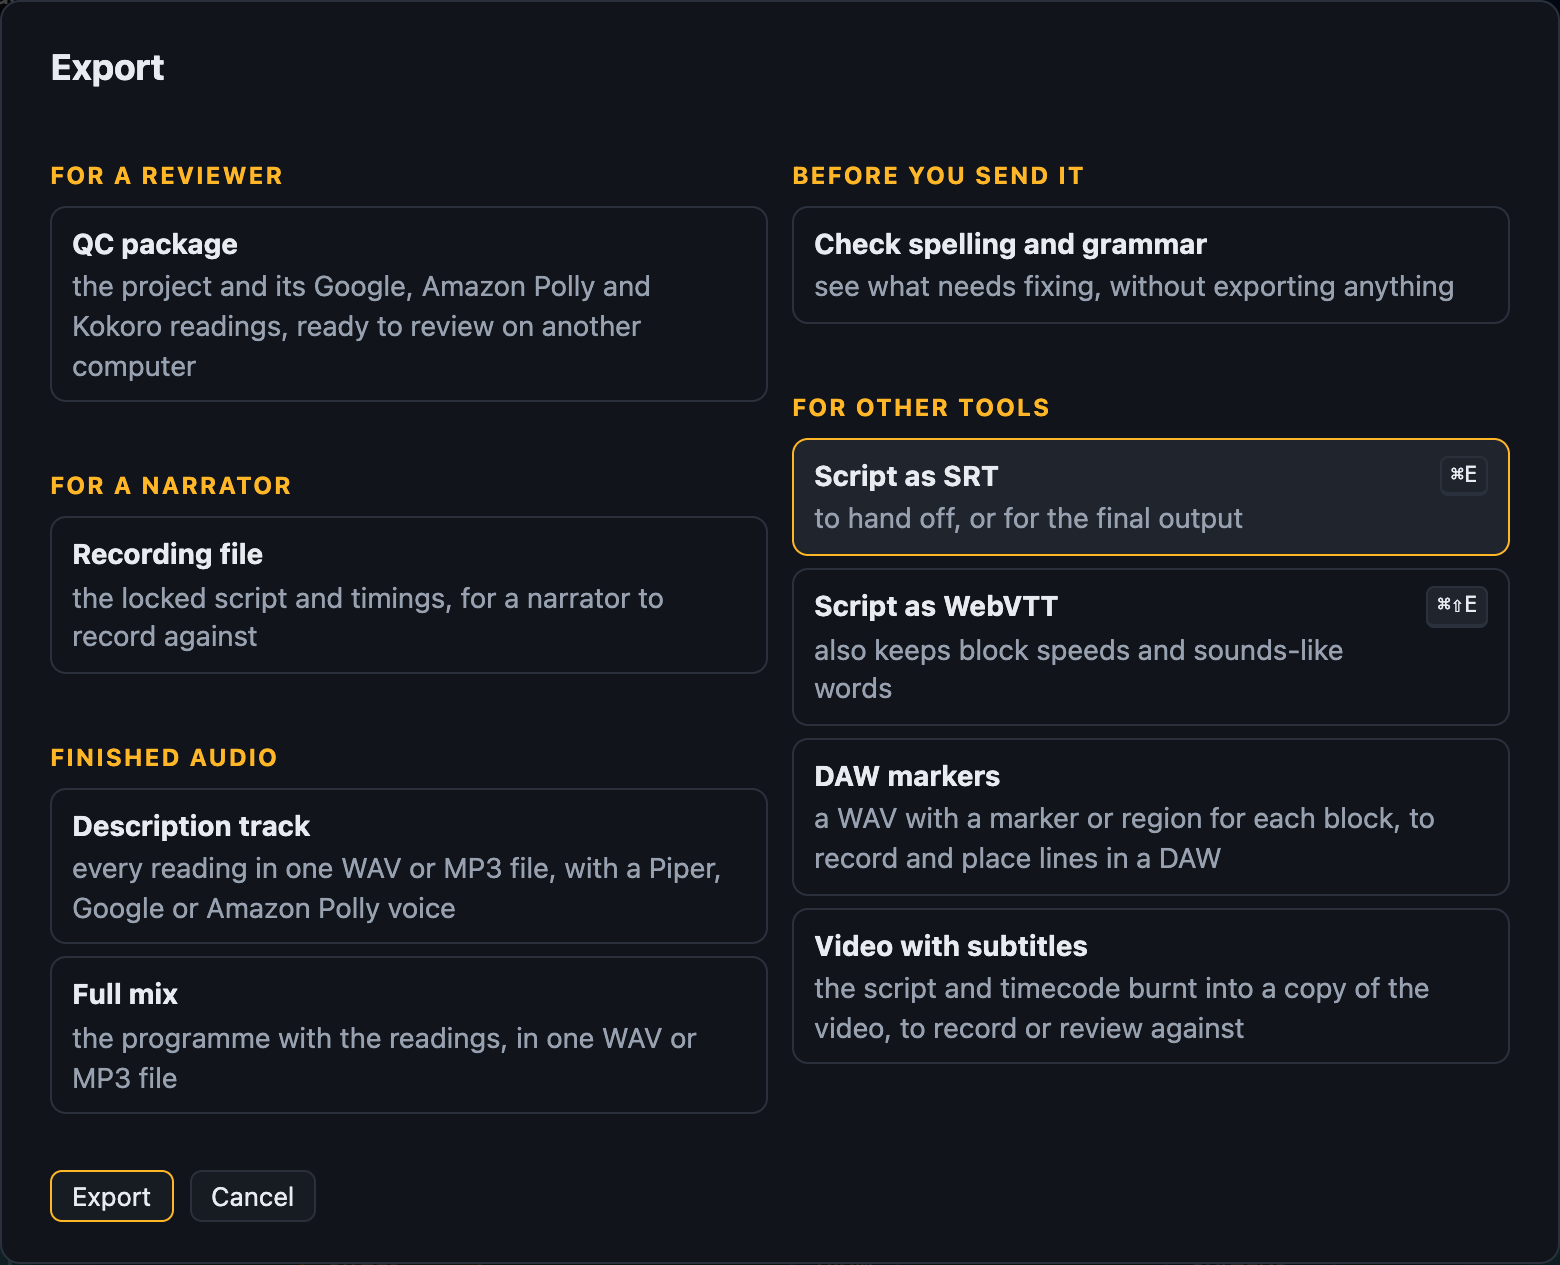
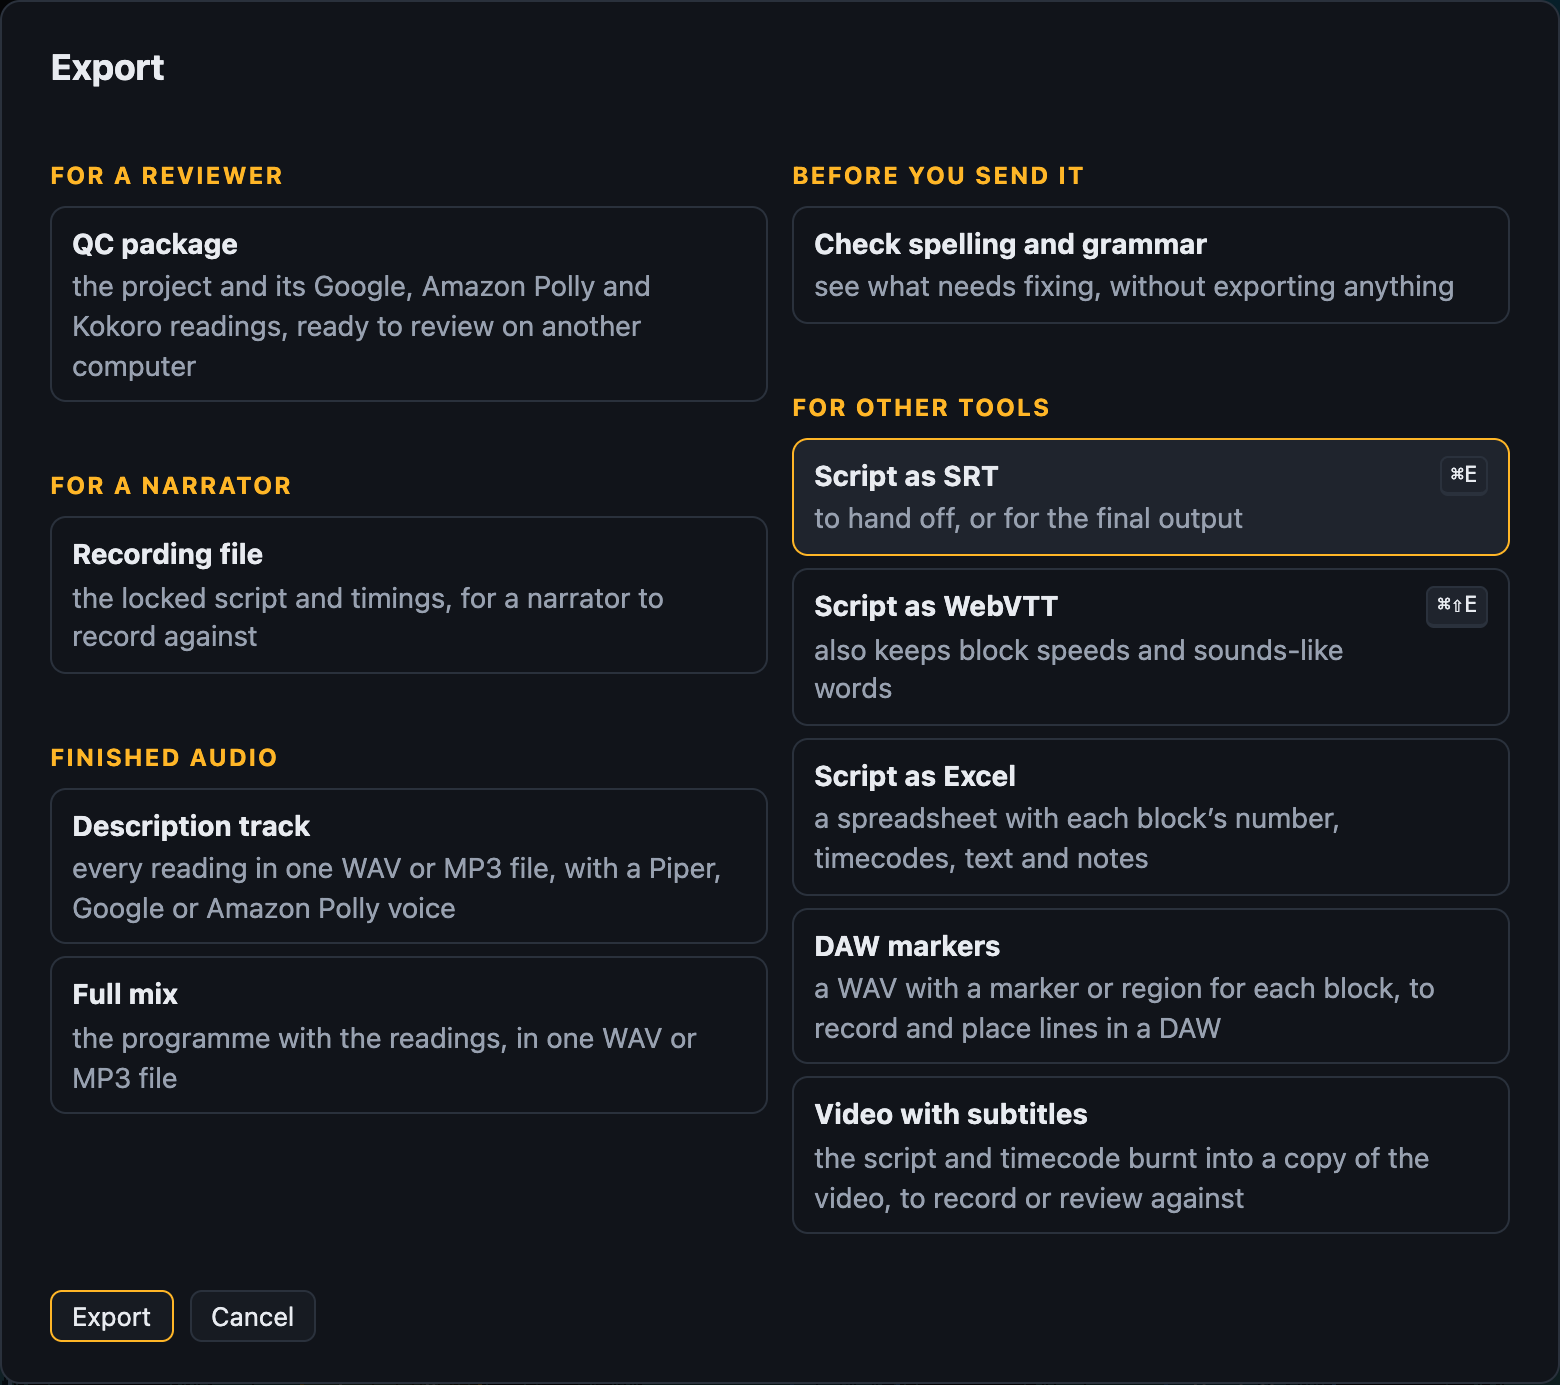
Export the script as an Excel workbook (#125)
File → Export… → Script as Excel saves an .xlsx laid out like a studio
script template: Line Number, Timecode In, Timecode Out, Script and On
Screen Note, one row per block. Timecodes are SMPTE at the video's frame
rate; the note is the block's own notes; the headers carry the voice's
language, such as "Script (fr)". Times follow the extended video, as SRT does.

diff --git a/app/js/xlsx.js b/app/js/xlsx.js
@@ -1,0 +1,104 @@
+// The script as an Excel workbook (.xlsx): one row per block, with its number, timecodes,
+// text and notes, laid out like a studio's script template. An .xlsx is a zip of XML files;
+// stored without compression, which Excel, Numbers, LibreOffice and Google Sheets all read.
+
+import { storeZip } from './zip.js';
+import { fmtTC } from './formats.js';
+
+// The language code for the headers, such as 'en' or 'fr', from a voice's language
+// ('en-US', 'fr_CA'), or failing that from its id ('google:fr-CA-Standard-A',
+// 'piper:de_DE-thorsten-medium', 'kokoro:ef_dora'). English when neither says.
+const KOKORO = { a: 'en', b: 'en', e: 'es', f: 'fr', h: 'hi', i: 'it', j: 'ja', p: 'pt', z: 'zh' };
+export function scriptLanguage(voice, id = '') {
+  const lang = String(voice?.lang || '').toLowerCase().split(/[-_]/)[0];
+  if (/^[a-z]{2,3}$/.test(lang)) return lang;
+  const [kind, name = ''] = String(id).split(/:(.*)/);
+  if (kind === 'kokoro') return KOKORO[name[0]] || 'en';
+  const m = (kind === 'google' || kind === 'piper') && name.match(/^([a-z]{2,3})[-_][A-Za-z]{2}\b/);
+  return m ? m[1] : 'en';
+}
+
+// The header row, with the script's language.
+export const headers = (lang = 'en') =>
+  ['Line Number', 'Timecode In', 'Timecode Out', `Script (${lang})`, `On Screen Note (${lang})`];
+
+// The rows under the headers: [number, in, out, script, note] for each block, with times as
+// SMPTE timecode at fps.
+const tidy = (s) => String(s || '').replace(/\r\n?/g, '\n').replace(/\n{2,}/g, '\n').trim();
+export const scriptRows = (cues, fps = 25) =>
+  cues.map((c, i) => [i + 1, fmtTC(c.start, fps), fmtTC(c.end, fps), tidy(c.text), tidy(c.notes)]);
+
+// Text for XML: escaped, without the control characters XML can't hold.
+const xml = (s) => String(s).replace(/[^\t\n\x20-퟿-�\u{10000}-\u{10FFFF}]/gu, '')
+  .replace(/&/g, '&amp;').replace(/</g, '&lt;').replace(/>/g, '&gt;').replace(/"/g, '&quot;');
+
+const COLS = 'ABCDE';
+// Styles: 0 Excel's default, 1 a header, 2 a centred cell, 3 the script, as in the template.
+const STYLES = { header: 1, cell: 2, script: 3 };
+function cell(ref, v, s) {
+  if (typeof v === 'number') return `<c r="${ref}" s="${s}"><v>${v}</v></c>`;
+  if (v === '') return `<c r="${ref}" s="${s}"/>`;
+  return `<c r="${ref}" s="${s}" t="inlineStr"><is><t xml:space="preserve">${xml(v)}</t></is></c>`;
+}
+function row(r, values, style) {
+  return `<row r="${r}"${r === 1 ? ' ht="27" customHeight="1"' : ''}>` +
+    values.map((v, i) => cell(`${COLS[i]}${r}`, v, style(i))).join('') + '</row>';
+}
+
+export function sheetXml(rows, lang = 'en') {
+  const body = [row(1, headers(lang), () => STYLES.header),
+    ...rows.map((values, i) => row(i + 2, values, (col) => (col === 3 ? STYLES.script : STYLES.cell)))];
+  return '<?xml version="1.0" encoding="UTF-8" standalone="yes"?>\n' +
+    '<worksheet xmlns="http://schemas.openxmlformats.org/spreadsheetml/2006/main" xmlns:r="http://schemas.openxmlformats.org/officeDocument/2006/relationships">' +
+    `<dimension ref="A1:E${rows.length + 1}"/>` +
+    '<sheetViews><sheetView tabSelected="1" workbookViewId="0"><selection activeCell="A2" sqref="A2"/></sheetView></sheetViews>' +
+    '<sheetFormatPr defaultRowHeight="21"/>' +
+    '<cols><col min="1" max="5" width="38.83203125" customWidth="1"/></cols>' +
+    `<sheetData>${body.join('')}</sheetData>` +
+    '<pageMargins left="0.7" right="0.7" top="0.75" bottom="0.75" header="0" footer="0"/><pageSetup orientation="landscape"/></worksheet>';
+}
+
+const STYLES_XML = '<?xml version="1.0" encoding="UTF-8" standalone="yes"?>\n' +
+  '<styleSheet xmlns="http://schemas.openxmlformats.org/spreadsheetml/2006/main">' +
+  '<fonts count="4"><font><sz val="11"/><name val="Calibri"/><family val="2"/></font>' +
+  '<font><sz val="16"/><name val="Calibri"/><family val="2"/></font>' +
+  '<font><sz val="16"/><name val="Gujarati Sangam MN"/></font>' +
+  '<font><sz val="16"/><name val="Arial"/><family val="2"/></font></fonts>' +
+  '<fills count="2"><fill><patternFill patternType="none"/></fill><fill><patternFill patternType="gray125"/></fill></fills>' +
+  '<borders count="1"><border><left/><right/><top/><bottom/><diagonal/></border></borders>' +
+  '<cellStyleXfs count="1"><xf numFmtId="0" fontId="0" fillId="0" borderId="0"/></cellStyleXfs>' +
+  '<cellXfs count="4"><xf numFmtId="0" fontId="0" fillId="0" borderId="0" xfId="0"/>' +
+  '<xf numFmtId="0" fontId="1" fillId="0" borderId="0" xfId="0" applyFont="1" applyAlignment="1"><alignment wrapText="1"/></xf>' +
+  '<xf numFmtId="0" fontId="2" fillId="0" borderId="0" xfId="0" applyFont="1" applyAlignment="1"><alignment horizontal="center" vertical="center" wrapText="1"/></xf>' +
+  '<xf numFmtId="0" fontId="3" fillId="0" borderId="0" xfId="0" applyFont="1" applyAlignment="1"><alignment horizontal="center" vertical="center" wrapText="1"/></xf></cellXfs>' +
+  '<cellStyles count="1"><cellStyle name="Normal" xfId="0" builtinId="0"/></cellStyles></styleSheet>';
+
+const PARTS = {
+  '[Content_Types].xml': '<?xml version="1.0" encoding="UTF-8" standalone="yes"?>\n' +
+    '<Types xmlns="http://schemas.openxmlformats.org/package/2006/content-types">' +
+    '<Default Extension="rels" ContentType="application/vnd.openxmlformats-package.relationships+xml"/>' +
+    '<Default Extension="xml" ContentType="application/xml"/>' +
+    '<Override PartName="/xl/workbook.xml" ContentType="application/vnd.openxmlformats-officedocument.spreadsheetml.sheet.main+xml"/>' +
+    '<Override PartName="/xl/worksheets/sheet1.xml" ContentType="application/vnd.openxmlformats-officedocument.spreadsheetml.worksheet+xml"/>' +
+    '<Override PartName="/xl/styles.xml" ContentType="application/vnd.openxmlformats-officedocument.spreadsheetml.styles+xml"/></Types>',
+  '_rels/.rels': '<?xml version="1.0" encoding="UTF-8" standalone="yes"?>\n' +
+    '<Relationships xmlns="http://schemas.openxmlformats.org/package/2006/relationships">' +
+    '<Relationship Id="rId1" Type="http://schemas.openxmlformats.org/officeDocument/2006/relationships/officeDocument" Target="xl/workbook.xml"/></Relationships>',
+  'xl/workbook.xml': '<?xml version="1.0" encoding="UTF-8" standalone="yes"?>\n' +
+    '<workbook xmlns="http://schemas.openxmlformats.org/spreadsheetml/2006/main" xmlns:r="http://schemas.openxmlformats.org/officeDocument/2006/relationships">' +
+    '<sheets><sheet name="Sheet1" sheetId="1" r:id="rId1"/></sheets></workbook>',
+  'xl/_rels/workbook.xml.rels': '<?xml version="1.0" encoding="UTF-8" standalone="yes"?>\n' +
+    '<Relationships xmlns="http://schemas.openxmlformats.org/package/2006/relationships">' +
+    '<Relationship Id="rId1" Type="http://schemas.openxmlformats.org/officeDocument/2006/relationships/worksheet" Target="worksheets/sheet1.xml"/>' +
+    '<Relationship Id="rId2" Type="http://schemas.openxmlformats.org/officeDocument/2006/relationships/styles" Target="styles.xml"/></Relationships>',
+  'xl/styles.xml': STYLES_XML,
+};
+
+export const XLSX_TYPE = 'application/vnd.openxmlformats-officedocument.spreadsheetml.sheet';
+
+// The workbook for cues (each { start, end, text, notes? }), as a Blob.
+export async function toXlsx(cues, { fps = 25, lang = 'en', date } = {}) {
+  const files = { ...PARTS, 'xl/worksheets/sheet1.xml': sheetXml(scriptRows(cues, fps), lang) };
+  const zip = await storeZip(Object.entries(files).map(([name, text]) => ({ name, blob: new Blob([text]) })), { date });
+  return new Blob([zip], { type: XLSX_TYPE });
+}

diff --git a/app/js/app.js b/app/js/app.js
@@ -29,6 +29,7 @@ import { RECORDING_EXT, isRecordingFile, toRecordingFile, fromRecordingFile, rea
 import { readNote, narrationSound } from './bwf.js';
 import { inPause } from './narrationscan.js';
 import { readZip } from './zip.js';
+import { toXlsx, scriptLanguage } from './xlsx.js';
 import { initRecord } from './record.js';
 import { takesInfo, takeGroups, deleteTakesOf, unpackSession, rememberSession, browserFolder, canUseFolders, canKeepInBrowser } from './takestore.js';
 import { isSessionPackage, fromSession, SESSION_FILE } from './session.js';
@@ -72,7 +73,7 @@ import { soundsLike, hasWord, mergeSay } from './tts.js';
 import { startTips } from './tooltip.js';
 import { tts, initTts, openTts, speak, stop as stopSpeech, duration as speechLength, spoken, readWav, SPEEDS, isSpeed, toBase, baseFromSpeed, speedLabel,
   isBlockSpeed, topSpeed, lowSpeed, speedLimitWhy, speedName, speedToFit, speedFromReadings, nextFitSpeed, bestFit, readingsOf, fixedShare, LANES,
-  reviewVoices, usingAudioVoice, measure, prefetch, readAhead, renderTrack, makeReadings, chosenVoice, chosenVoiceName, voiceName, voiceLabel, fillVoiceSelect, showCloudCost, cloudOf, setTtsOption, onlyNotes, mixLevels, setMix, stepDip, dipLevel, LOUDNESS, DIP_BYS, isDip, FADES, isDipBy, typedDipBy, blockDipOf, dipFor, isVol, typedVol, volGain,
+  reviewVoices, usingAudioVoice, measure, prefetch, readAhead, renderTrack, makeReadings, chosenVoice, chosenVoiceName, chosenVoiceInfo, voiceName, voiceLabel, fillVoiceSelect, showCloudCost, cloudOf, setTtsOption, onlyNotes, mixLevels, setMix, stepDip, dipLevel, LOUDNESS, DIP_BYS, isDip, FADES, isDipBy, typedDipBy, blockDipOf, dipFor, isVol, typedVol, volGain,
   savedReadings, clearSavedReadings, checkFfmpeg } from './tts.js';
 
 const $ = (id) => document.getElementById(id);
@@ -6456,19 +6457,21 @@ function exportSubs(fmt) {
 // to the extended video, rather than the programme.
 const readLength = (c) => (spoken(c.text) ? speechLength(said(c), c.speed, c.voice) : { secs: 0, exact: true });
 const scriptCues = (pauses = withPauses()) => (hasExtended() ? timedScript(S.cues, S.extendedAll, (c) => readLength(c).secs, pauses) : S.cues);
-function writeSubs(fmt) {
+async function writeSubs(fmt) {
   const ext = hasExtended(), length = readLength;
   const cues = scriptCues();
-  const text = fmt === 'vtt' ? toVTT(cues) : toSRT(cues);
+  const blob = fmt === 'xlsx'
+    ? await toXlsx(cues, { fps: S.fps, lang: scriptLanguage(chosenVoiceInfo(), chosenVoice()) })
+    : new Blob([fmt === 'vtt' ? toVTT(cues) : toSRT(cues)], { type: 'text/plain;charset=utf-8' });
   const name = `${baseName()}.${fmt}`;
   const a = document.createElement('a');
-  a.href = URL.createObjectURL(new Blob([text], { type: 'text/plain;charset=utf-8' }));
+  a.href = URL.createObjectURL(blob);
   a.download = name;
   a.click();
   setTimeout(() => URL.revokeObjectURL(a.href), 2000);
   const speeds = fmt === 'srt' && S.cues.some((c) => c.speed);
   const about = ext && S.cues.some((c) => isExt(c) && !length(c).exact);
-  toast(`Exported ${name} (${S.cues.length} cues)` + (withPauses() ? ', timed to the extended video' : '') + (speeds ? '. SRT can’t store block speeds: export VTT to keep them' : '') +
+  toast(`Exported ${name} (${S.cues.length} blocks)` + (withPauses() ? ', timed to the extended video' : '') + (speeds ? '. SRT can’t store block speeds: export VTT to keep them' : '') +
     (about ? '. Some reading lengths are estimates' : ''));
 }
 
@@ -8014,6 +8017,7 @@ const actions = {
   openVideo: () => openVideoPicker(),
   exportSrt: () => exportSubs('srt'),
   exportVtt: () => exportSubs('vtt'),
+  exportXlsx: () => exportSubs('xlsx'),
   exportTrack: () => {
     if (!writing()) return modeOnly('The description track', 'write');
     openTts();

diff --git a/app/sw.js b/app/sw.js
@@ -9,7 +9,7 @@ const CACHE = `scribecue-${VERSION}`;
 const FILES = [
   './', 'index.html', 'manifest.webmanifest', 'changelog.json', 'css/style.css',
   'js/newproject.js', 'js/qc.js', 'js/qcspeech.js', 'js/qcdrawer.js', 'js/qcplayer.js', 'js/extended.js', 'js/qc-worker.js', 'js/comments.js', 'js/commentsdrawer.js', 'js/bookmarks.js', 'js/bookmarksdrawer.js', 'js/profile.js', 'js/edits.js', 'js/ai.js', 'js/aiscript.js', 'js/heardlane.js', 'js/aidrawer.js', 'js/a11y.js', 'js/appearance.js', 'js/dawmarkers.js', 'js/setsearch.js', 'js/split.js', 'js/app.js', 'js/browser.js', 'js/nav.js', 'js/tour.js', 'js/keymap.js', 'js/keys.js', 'js/settings.js', 'js/whatsnew.js', 'js/config.js', 'js/formats.js', 'js/polly.js', 'js/piper-engine.js', 'js/piper-worker.js',
-  'js/qcreviewdrawer.js', 'js/qcpending.js', 'js/qcreview.js', 'js/collaboration.js', 'js/collaboration-worker.js', 'js/project.js', 'js/recording.js', 'js/bwf.js', 'js/record.js', 'js/levelmeter.js', 'js/takestore.js', 'js/session.js', 'js/recents.js', 'js/pickers.js', 'js/diagnostics.js', 'js/zip.js', 'js/rec-worklet.js', 'js/old.js', 'js/tmdb.js', 'js/opensubtitles.js', 'js/osdialog.js', 'js/findreplace.js', 'js/guide.js', 'js/offline.js', 'js/settingsfile.js', 'js/drivesync.js', 'js/driveprojects.js', 'js/driveshares.js', 'js/googledrive.js', 'js/syncstart.js', 'js/googlecallback.js', 'google.html', 'js/autosave.js', 'js/reminder.js', 'js/dockertip.js', 'js/wavestore.js', 'js/spelling.js', 'js/proofing.js', 'js/proofing-worker.js', 'js/proofdialog.js', 'js/stt.js', 'js/tts.js', 'js/whisper-worker.js',
+  'js/qcreviewdrawer.js', 'js/qcpending.js', 'js/qcreview.js', 'js/collaboration.js', 'js/collaboration-worker.js', 'js/project.js', 'js/recording.js', 'js/bwf.js', 'js/record.js', 'js/levelmeter.js', 'js/takestore.js', 'js/session.js', 'js/recents.js', 'js/pickers.js', 'js/diagnostics.js', 'js/zip.js', 'js/xlsx.js', 'js/rec-worklet.js', 'js/old.js', 'js/tmdb.js', 'js/opensubtitles.js', 'js/osdialog.js', 'js/findreplace.js', 'js/guide.js', 'js/offline.js', 'js/settingsfile.js', 'js/drivesync.js', 'js/driveprojects.js', 'js/driveshares.js', 'js/googledrive.js', 'js/syncstart.js', 'js/googlecallback.js', 'google.html', 'js/autosave.js', 'js/reminder.js', 'js/dockertip.js', 'js/wavestore.js', 'js/spelling.js', 'js/proofing.js', 'js/proofing-worker.js', 'js/proofdialog.js', 'js/stt.js', 'js/tts.js', 'js/whisper-worker.js',
   'js/update.js', 'js/welcome.js', 'js/wave-worker.js', 'js/dialogue.js', 'js/mp3.js', 'js/mp3-worker.js', 'js/mix-worker.js', 'js/narrationscan.js', 'js/narration-worker.js', 'js/audio.js', 'js/track-worker.js', 'js/ffcmd.js', 'js/ffhelp.js', 'js/muxplan.js', 'js/mux-worker.js', 'vendor/mediabunny.js', 'vendor/mediabunny-aac.js', 'js/codecs.js', 'vendor/lame.min.js', 'vendor/yjs.js', 'js/shared.js', 'js/sharing.js', 'js/sharekeys.js', 'js/relayclient.js', 'js/sharedialog.js', 'js/sharedvideo.js', 'js/sharedvideo-worker.js', 'js/tooltip.js', 'js/floatvideo.js', 'vendor/ac3.js', 'vendor/nspell.js',
   'vendor/dictionaries/en-us.aff', 'vendor/dictionaries/en-us.dic', 'vendor/dictionaries/en-gb.aff', 'vendor/dictionaries/en-gb.dic', 'vendor/dictionaries/en-ca.aff', 'vendor/dictionaries/en-ca.dic',
   'icons/icon-192.png', 'icons/icon-512.png',

diff --git a/app/index.html b/app/index.html
@@ -562,6 +562,7 @@ docker compose up -d --build</code></pre>
         <div class="expcards">
           <label class="wzcard"><input type="radio" name="expPick" value="exportSrt"><span><strong>Script as SRT</strong><span class="dim">to hand off, or for the final output</span></span><kbd><span class="mod"></span>E</kbd></label>
           <label class="wzcard"><input type="radio" name="expPick" value="exportVtt"><span><strong>Script as WebVTT</strong><span class="dim">also keeps block speeds and sounds-like words</span></span><kbd><span class="mod"></span>⇧E</kbd></label>
+          <label class="wzcard"><input type="radio" name="expPick" value="exportXlsx"><span><strong>Script as Excel</strong><span class="dim">a spreadsheet with each block’s number, timecodes, text and notes</span></span></label>
           <label class="wzcard"><input type="radio" name="expPick" value="exportDaw"><span><strong>DAW markers</strong><span class="dim">a WAV with a marker or region for each block, to record and place lines in a DAW</span></span></label>
           <label class="wzcard"><input type="radio" name="expPick" value="exportBurn"><span><strong>Video with subtitles</strong><span class="dim">the script and timecode burnt into a copy of the video, to record or review against</span></span></label>
         </div>

diff --git a/app/js/tour.js b/app/js/tour.js
@@ -120,8 +120,8 @@ export const STEPS = [
     target: '#fileBtn',
     title: 'Projects and exports',
     text: (mode) => `File has New, Open, Recents, Save and Export. Save keeps everything as a Scribecue project, so you can pick up where you left off, and Save to Google Drive lets you open it on any computer. Export (${keyFor('exportDialog')}) opens a window of every file you can make. ${mode === 'write'
-      ? 'It’s grouped by who it’s for: a QC package for a reviewer, a recording file for a narrator, finished audio, and files for other tools: the script as SRT or WebVTT, DAW markers and a video with subtitles.'
-      : 'It has the script as SRT or WebVTT, DAW markers or a video with subtitles, to hand off.'} It can check spelling and grammar first.`,
+      ? 'It’s grouped by who it’s for: a QC package for a reviewer, a recording file for a narrator, finished audio, and files for other tools: the script as SRT, WebVTT or Excel, DAW markers and a video with subtitles.'
+      : 'It has the script as SRT, WebVTT or Excel, DAW markers or a video with subtitles, to hand off.'} It can check spelling and grammar first.`,
   },
   {
     title: 'Your work stays yours',

diff --git a/app/js/tts.js b/app/js/tts.js
@@ -1491,6 +1491,8 @@ export function fillVoiceSelect(sel, selected = currentVoice()?.voiceURI, { lang
 }
 export const chosenVoice = () => currentVoice()?.voiceURI || '';
 export const chosenVoiceName = () => voiceTitle(currentVoice()) || 'none';
+// The chosen voice, with its language, if it's here.
+export const chosenVoiceInfo = () => currentVoice();
 export const voiceName = (uri) => voiceTitle(voices.find((v) => v.voiceURI === uri)) || 'the voice before';
 
 // Sounds like a real audio description, so voices can be judged on what they'll read.

diff --git a/Guides/GETTING-STARTED.md b/Guides/GETTING-STARTED.md
@@ -299,6 +299,8 @@ When the script is finished, or to share it with someone who doesn't use Scribec
 - **Script as SRT** (`Ctrl/Cmd+E`).
 - **Script as WebVTT** (`Ctrl/Cmd+Shift+E`). This also keeps each block's speed, voice and
   sounds-like words.
+- **Script as Excel:** a spreadsheet with a row for each block: its number, timecodes in
+  and out, text and notes. The headers carry the voice's language, such as **Script (en)**.
 - **Description track:** all the readings as one WAV or MP3 file, in Write mode with a
   [Piper](VOICES.md#piper-voices), [Kokoro](VOICES.md#kokoro-voices), [Google](VOICES.md#google-cloud-voices)
   or [Amazon Polly](VOICES.md#amazon-polly-voices) voice.
@@ -362,7 +364,7 @@ Your project is your master copy, so keep it. The other files are made for one p
 | A narrator | [Recording file](RECORDING.md#making-the-recording-file) (`.scribecuerec`) | **Export → Recording file** |
 | Your other computer, partway through recording | [Session package](RECORDING.md#moving-to-another-computer) (`.scribesession`) | **Export → Session package** |
 | A mixer | [Narration WAV](MIXING.md#the-narration-wav), or a Narration zip with alts | **Export**, in Record mode |
-| Someone using another tool | SRT or WebVTT | **Export** |
+| Someone using another tool | SRT, WebVTT or Excel | **Export** |
 
 - **Send the video too.** Reviewers and narrators need their own copy. No Scribecue file contains
   it, but a [shared project](SHARING.md#the-video) can carry it.

diff --git a/Guides/WRITING.md b/Guides/WRITING.md
@@ -127,7 +127,7 @@ settings below are under **Extended blocks in exports**, in the text to speech s
 |---------|---------|
 | Description track | Readings move later by the pauses before them. |
 | Full mix | The programme's sound stops during each pause. It can't go in the original video. |
-| SRT and WebVTT | Times match the extended video, and blocks show their full reading length. |
+| SRT, WebVTT and Excel | Times match the extended video, and blocks show their full reading length. |
 
 To keep the video's timing instead, turn off **Keep the pauses**. Each reading then plays
 over the programme, and scripts keep the original times.

diff --git a/Guides/TRANSCRIBING.md b/Guides/TRANSCRIBING.md
@@ -201,8 +201,8 @@ Once the whole programme is marked:
 - **Save** a project with `Ctrl/Cmd+S`, and open it next time with `Ctrl/Cmd+O`.
   Or drag the project and its video onto Scribecue together.
   [Saving](GETTING-STARTED.md#saving) has the details.
-- **Hand it over** with **File → Export…**: **Script as SRT** (`Ctrl/Cmd+E`) or **Script
-  as WebVTT** (`Ctrl/Cmd+Shift+E`).
+- **Hand it over** with **File → Export…**: **Script as SRT** (`Ctrl/Cmd+E`), **Script
+  as WebVTT** (`Ctrl/Cmd+Shift+E`) or **Script as Excel**.
 
 ## Keys for transcribing
 
